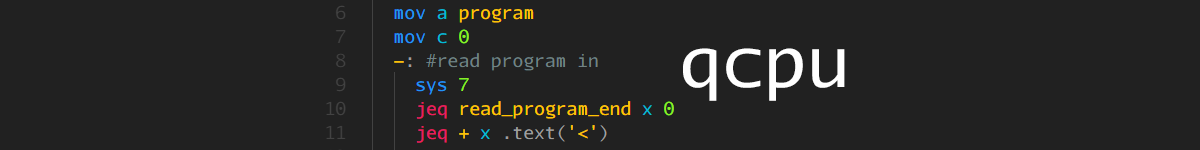
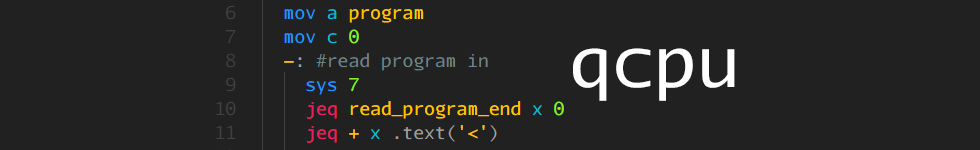
try to fix readme image for correct width

diff --git a/README.md b/README.md
@@ -1,5 +1,5 @@
 <div align="center">
-  <img width="600" height="300" src="./github_header.png">
+  <img width="980" height="150" src="./github_header.png">
 </div>
 
 # qcpu
